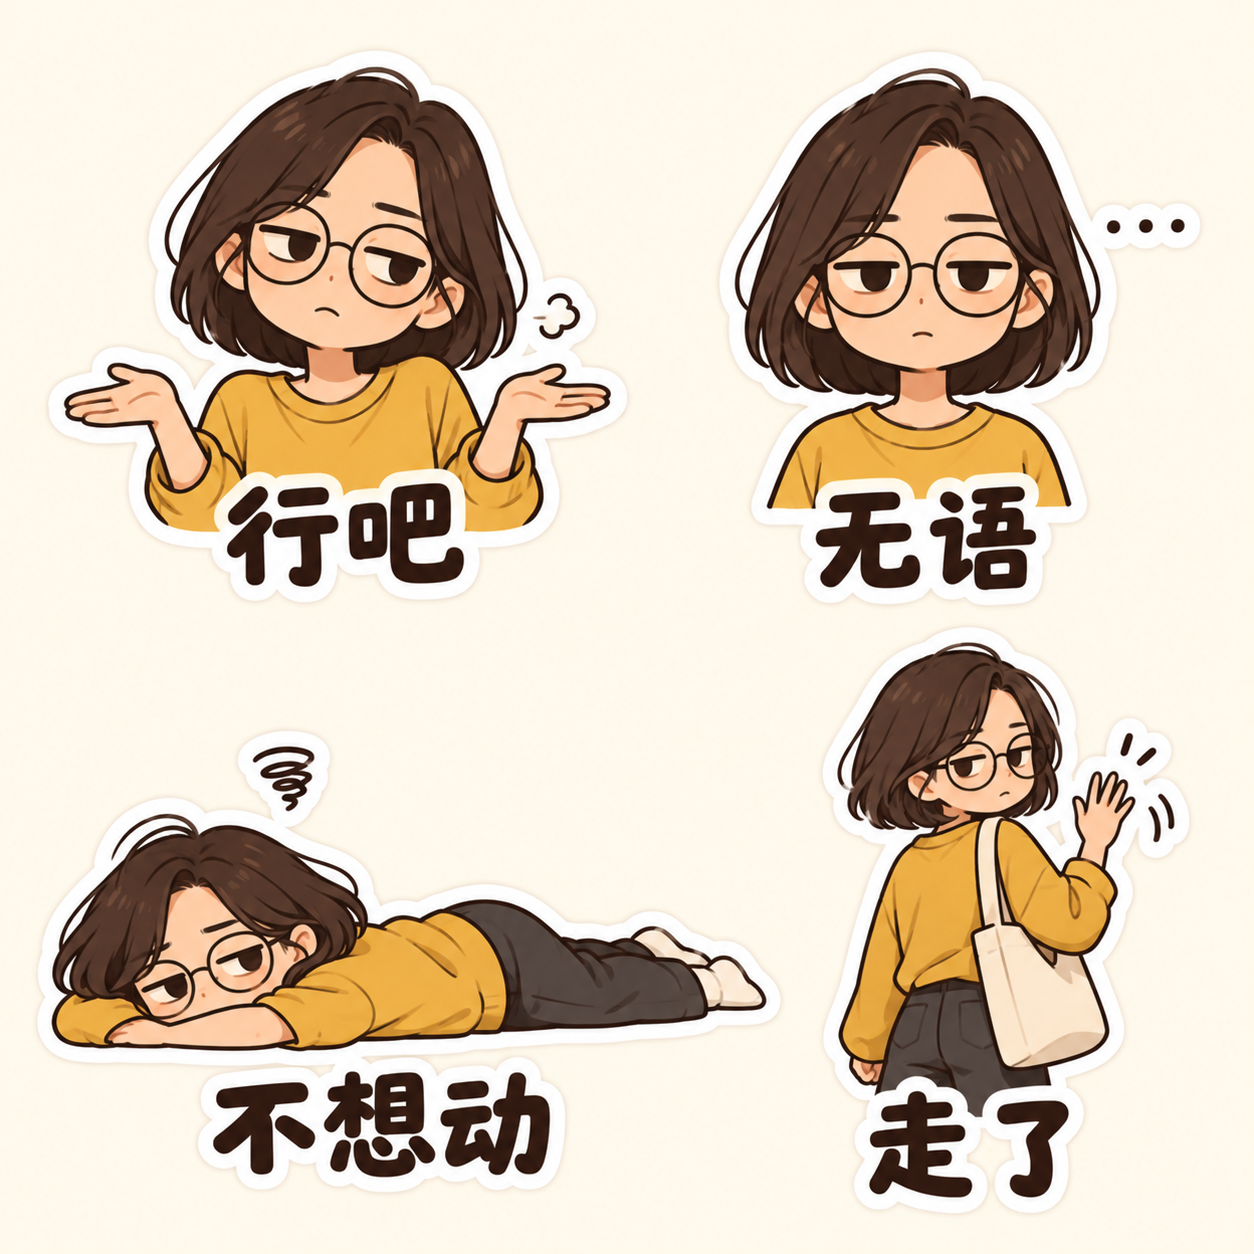
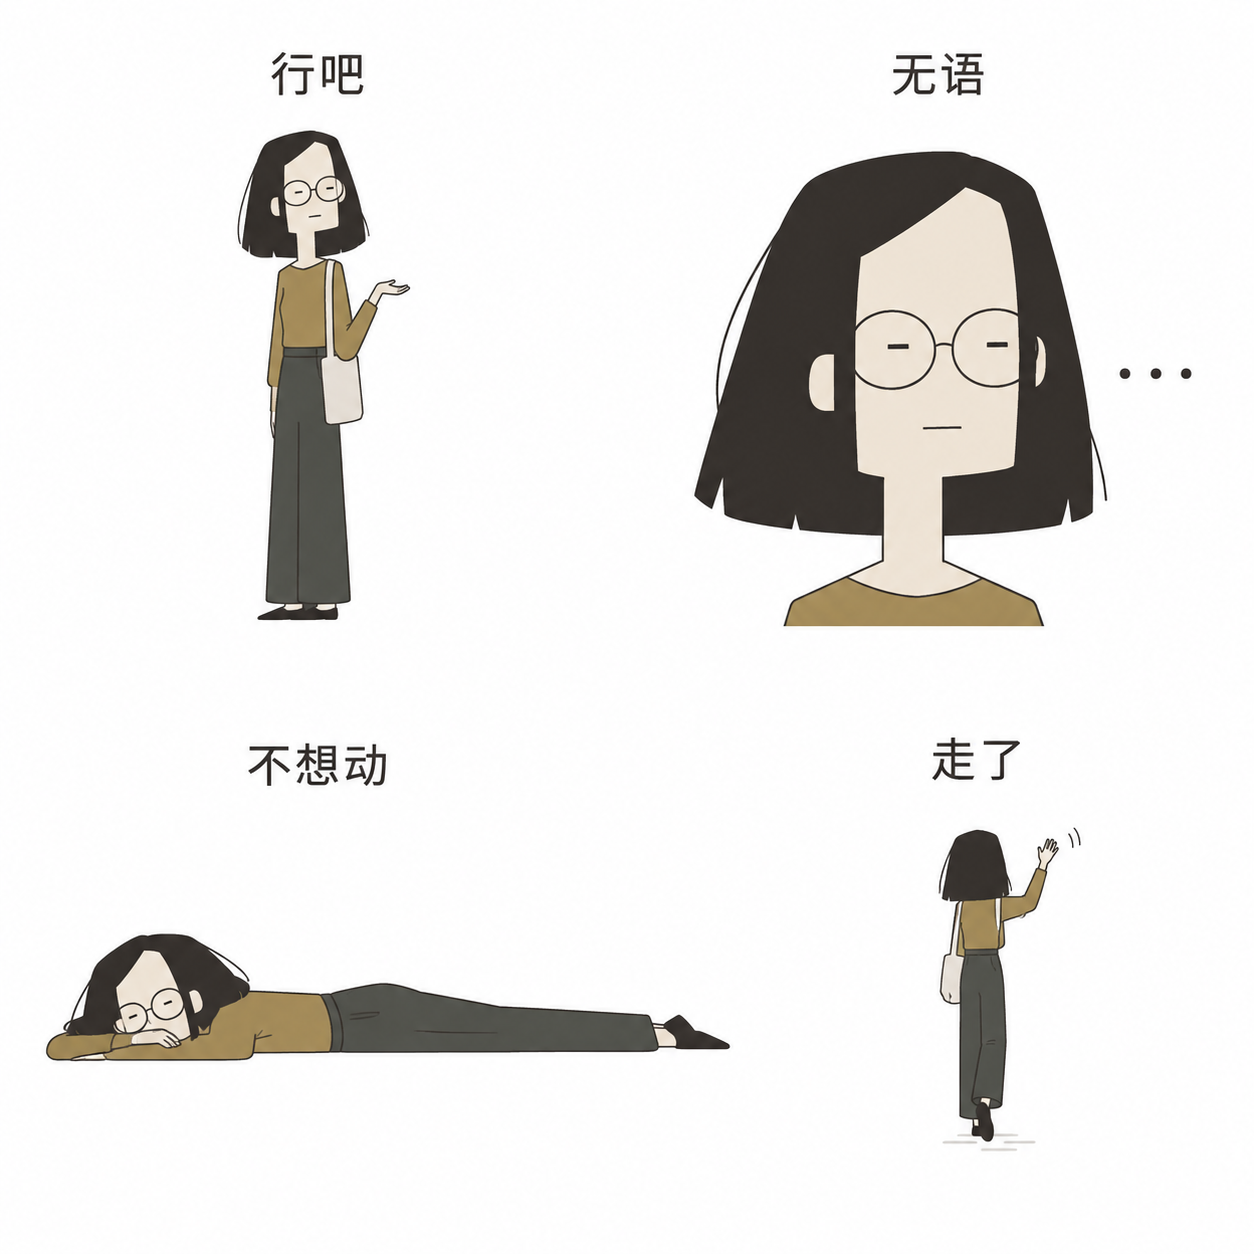
Differentiate four templates with line doodles, elastic comics, geometric deadpan and photocopy memes

diff --git a/README.md b/README.md
@@ -64,17 +64,17 @@ git clone https://github.com/jianiye-coder/wechat-sticker-me.git ~/.codex/skills
 
 | 模板 | 特色 |
 |---|---|
-| 软萌日常 | 温柔可爱，通用聊天 |
-| 情绪小剧场 | 夸张反应，朋友群日常 |
-| 冷脸吐槽 | 极简冷幽默 |
-| 打工日常 | 收到、开会、摸鱼、下班 |
+| 软萌日常 | 极简线条小人，细长手脚与温柔动作 |
+| 情绪小剧场 | 弹性身体、粗笔漫画、夸张全身动作 |
+| 冷脸吐槽 | 几何长脸、横线眼、克制平涂与冷幽默 |
+| 打工日常 | 灰阶脸部特写＋简笔身体，黑白职场梗图 |
 | 甜甜陪伴 | 亲昵、贴贴、想念 |
 | 手帐慢生活 | 手绘线条，喝茶、晒太阳 |
 | 黏土小情绪 | 圆润立体，丰富小情绪 |
 | 像素日常 | 复古像素，简短回应 |
 | 精神离线 | 抓狂、融化、灵魂出走，抽象暴走涂鸦 |
 
-下面是每种模板的实际生成示例，每张展示4个表情。示例统一使用虚构人物，正式制作会按你的照片、发型、服装和口头禅定制。图片由 AI 生成，米白背景用于 README 展示，不是直接投稿的透明素材。
+下面是每种模板的实际生成示例，每张展示4个表情。示例统一使用虚构人物，正式制作会按你的照片、发型、服装和口头禅定制。图片由 AI 生成，白色或米白背景用于 README 展示，不是直接投稿的透明素材。
 
 | 软萌日常 · `soft-daily` | 情绪小剧场 · `drama-club` |
 | :---: | :---: |
@@ -99,6 +99,8 @@ git clone https://github.com/jianiye-coder/wechat-sticker-me.git ~/.codex/skills
 > 按 Sticker Me 的流程，选打工日常模板，画风换成黏土，用我的照片，先做三张试稿。
 
 模板选项见 [模板指南](references/templates.md)，数据见 [catalog.json](templates/catalog.json)。
+
+模板既区分聊天场景，也区分视觉语言：简笔、弹性漫画、几何扁平、黑白拼贴，不只是在同一套Q版里更换文字。每套依然可以保留你自己的发型、眼镜和服装等特点。
 
 ## 开始使用
 

diff --git a/references/templates.md b/references/templates.md
@@ -4,10 +4,10 @@
 
 | 模板 | 画风与语气 | 常用表情举例 |
 |---|---|---|
-| 软萌日常 | 大头小身，温柔亲切 | 开心、收到、抱抱、谢谢 |
-| 情绪小剧场 | 夸张漫画，动作有戏 | 震惊、偷笑、抓狂、吃瓜 |
-| 冷脸吐槽 | 极简扁平，冷幽默 | 行吧、就这、无语、不想动 |
-| 打工日常 | Q版，礼貌中带疲惫 | 在忙、稍等、改好了、下班 |
+| 软萌日常 | 极简线条小人，细长手脚，温柔亲切 | 开心、收到、抱抱、谢谢 |
+| 情绪小剧场 | 弹性变形身体，粗笔全身动作 | 震惊、偷笑、抓狂、吃瓜 |
+| 冷脸吐槽 | 几何长脸、横线眼、克制平涂 | 行吧、就这、无语、不想动 |
+| 打工日常 | 黑白写实脸与简笔身体拼贴，疲惫幽默 | 在忙、稍等、改好了、下班 |
 | 甜甜陪伴 | 软萌Q版，亲昵 | 想你、贴贴、等你、哄我 |
 | 手帐慢生活 | 手绘涂鸦，松弛温暖 | 喝茶、晒太阳、散步去、歇一会 |
 | 黏土小情绪 | 圆润立体黏土，夸张可爱 | 得意、救命、累瘫、撒娇 |

diff --git a/references/creative.md b/references/creative.md
@@ -43,3 +43,9 @@
 - 使用感：三张是否靠动作区分、去掉文字能否理解、短句是不是用户会说的话。
 
 先纠正共性偏差再扩展整套；某一张失败只返工该张。不要用凭空百分比声称人脸识别精度。
+
+## 模板之间的视觉差异
+
+比较多套模板时固定人物辨识锚点，不等于固定大眼睛、头身比例、服装颜色、描边和字体。每套至少在比例轮廓、线条/材质、配色、字体排布中拉开明显区别。模板内一致，模板间可不同。
+
+当前四个基础方向：soft-daily简笔小人；drama-club弹性粗笔漫画；cool-replies狭长几何扁平；office-life灰阶脸部与简笔身体拼贴。不要生成同一个精致大眼Q版人物后只换配字。风格参考提炼表达方法，不复制现有IP或未经用户提供的真人脸。
